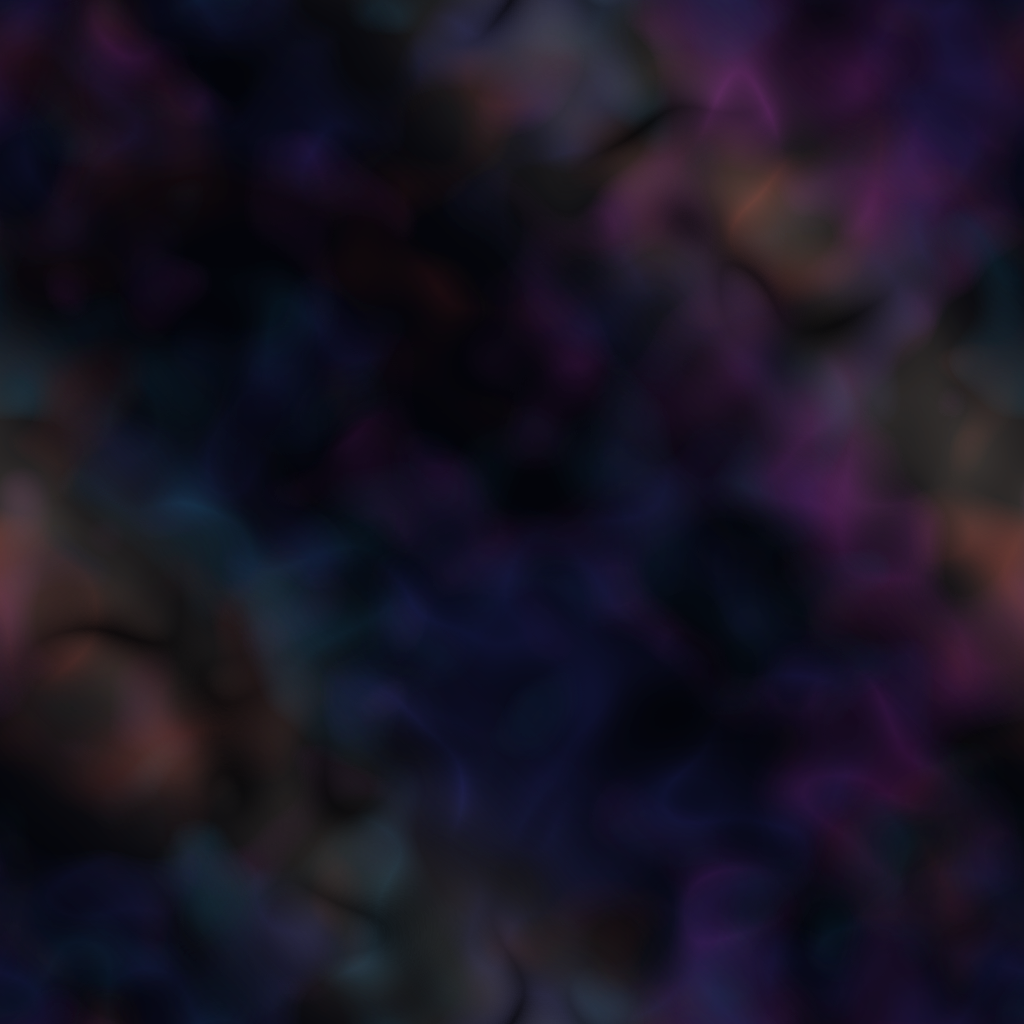
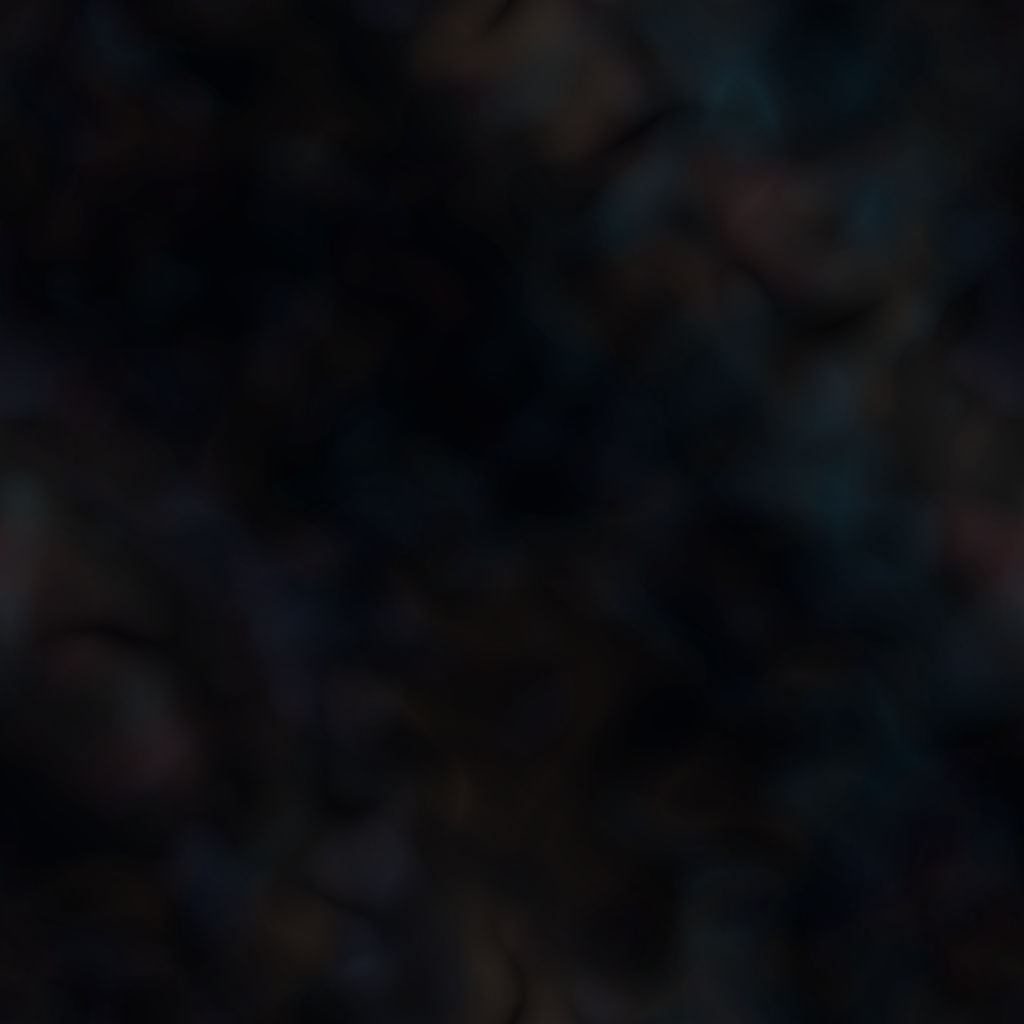
style(sky): darker nebulae, less purple

diff --git a/tools/draw_sky.py b/tools/draw_sky.py
@@ -17,14 +17,15 @@ SKY_DIR = Path(__file__).parent.parent / 'assets' / 'images' / 'sky'
 SIZE = 1024                   # a power of two, so the image can repeat
 SEED = 11
 
-SPACE = (3, 4, 10)
+SPACE = (2, 3, 6)
+# Dark and muted, so as not to draw the eye from the game
 GASES: tuple[tuple[Color, float], ...] = (    # and how much they show
-    ((96, 30, 104), .55),     # glowing hydrogen and oxygen
-    ((22, 74, 104), .5),
-    ((34, 38, 112), .45),
-    ((122, 40, 36), .3),
+    ((16, 46, 60), .5),       # glowing oxygen, seen from very far
+    ((26, 32, 56), .5),
+    ((54, 38, 28), .4),       # dust lit by the stars
+    ((62, 26, 36), .2),       # a little glowing hydrogen
 )
-STARLIGHT = (150, 136, 118)   # of the stars too far to be seen apart
+STARLIGHT = (120, 112, 100)   # of the stars too far to be seen apart
 DUST = (2, 2, 4)
 BAND_WIDTH = .16              # of the galaxy, for the image
 # Stars from the hottest to the coolest, and how often
@@ -112,9 +113,9 @@ def draw_nebula(rng: Random) -> Image.Image:
         clouds = ImageChops.multiply(clouds, near_band)
         wisps = ImageChops.multiply(ridges(rng, 4, 9, 20), clouds)
         sky.alpha_composite(layer(color, faded(clouds, amount)))
-        sky.alpha_composite(layer(color, faded(wisps, amount * 2)))
+        sky.alpha_composite(layer(color, faded(wisps, amount * 1.5)))
     glow = ImageChops.multiply(galaxy, tiled_octaves(rng, 5, 12, 30))
-    sky.alpha_composite(layer(STARLIGHT, faded(glow, .5)))
+    sky.alpha_composite(layer(STARLIGHT, faded(glow, .3)))
     # Lanes of dust darken the middle of the band
     lanes = ImageChops.multiply(
         galaxy.point(lut(lambda v: v ** 3)), ridges(rng, 3, 7, 16)
